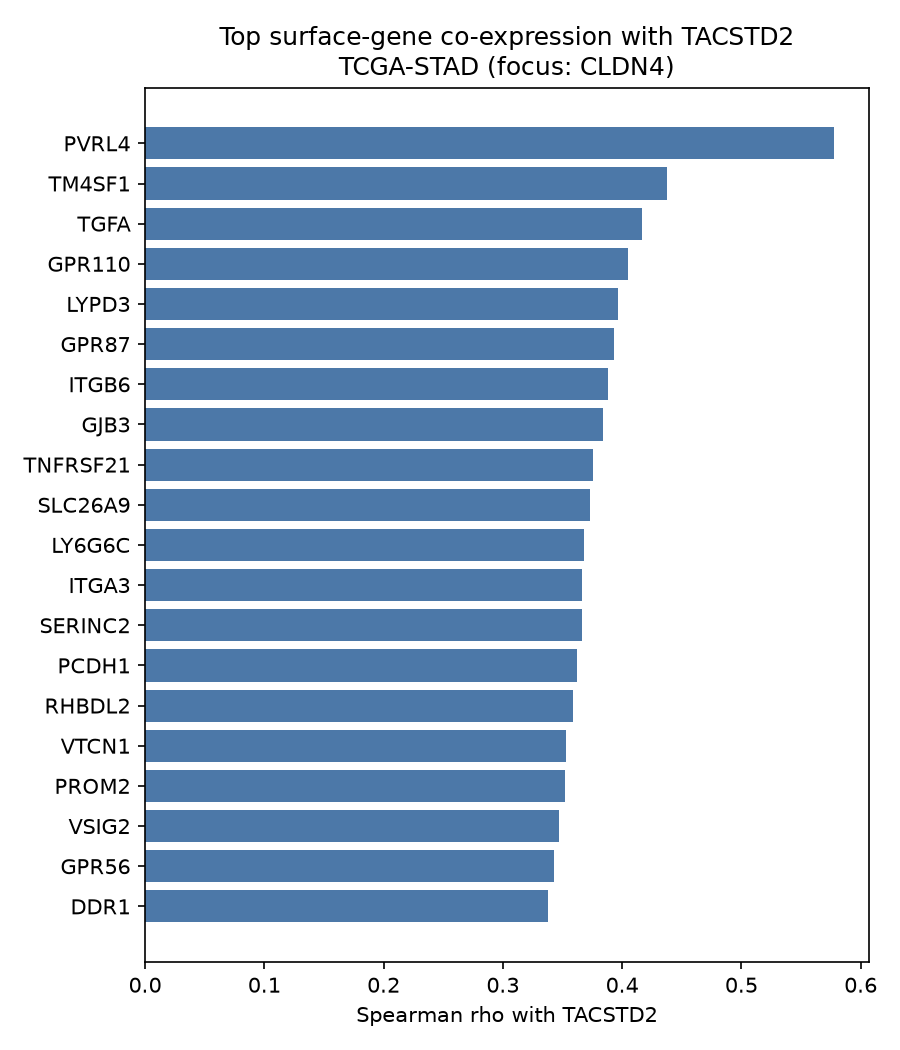
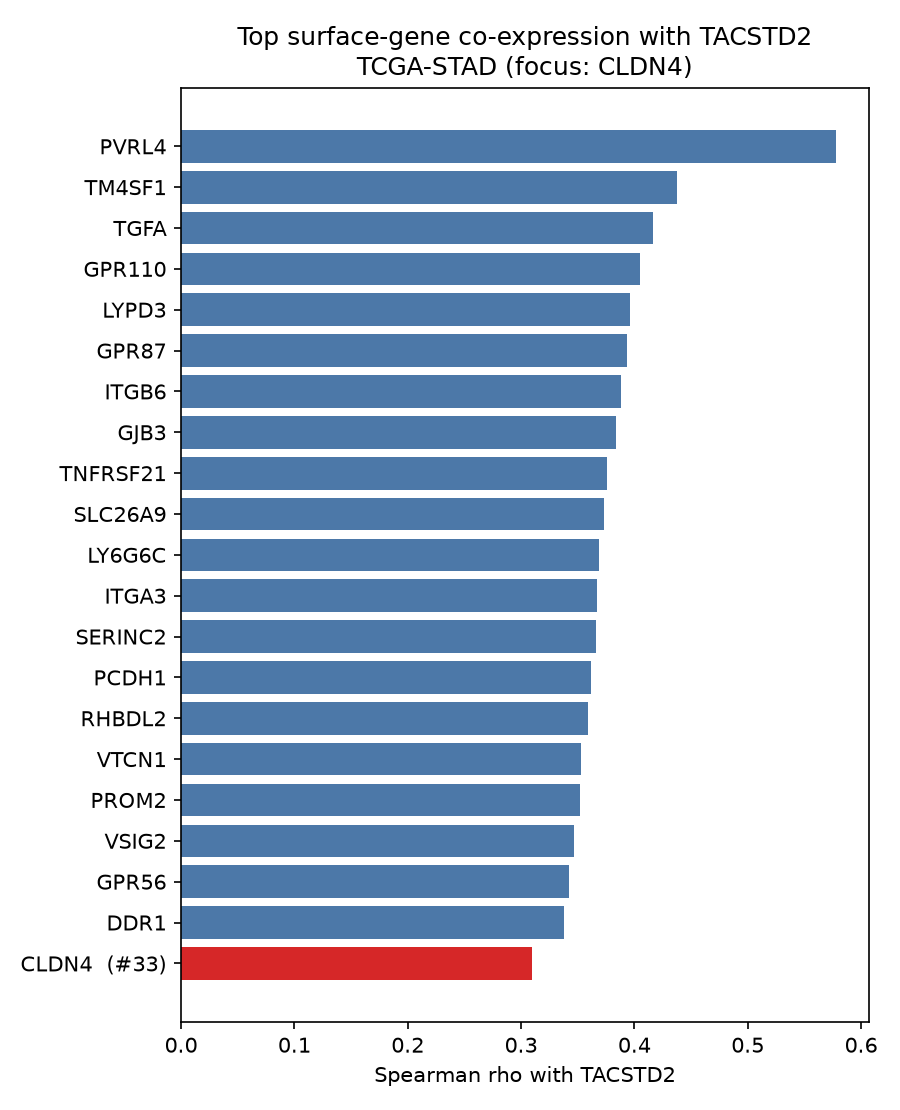
Show CLDN4 on the STAD partner bar chart even at rank 33
The focus gene sits outside the top 20, so the previous figure omitted it.
Append the highlighted CLDN4 bar with its honest rank label.

Changed region(s): [[0.0311, 0.0, 0.9644, 0.8838], [0.1556, 0.9143, 0.9956, 0.9752]]

diff --git a/scripts/coexpression.py b/scripts/coexpression.py
@@ -217,11 +217,21 @@ def make_plots(
         fig.savefig(outdir / f"scatter_{anchor}_vs_{focus}.png", dpi=150)
         plt.close(fig)
 
-    # 2) Top-N bar chart, focus highlighted.
-    topn = df.head(min(20, window)).iloc[::-1]
+    # 2) Top-N bar chart. If the focus gene is outside the window, append it
+    # so the figure still shows its honest rank (STAD: CLDN4 is #33).
+    n_bars = min(20, window)
+    topn = df.head(n_bars).copy()
+    if focus in df["gene"].values and focus not in set(topn["gene"]):
+        topn = pd.concat([topn, df[df["gene"] == focus]], ignore_index=True)
+    topn = topn.iloc[::-1]
     colors = ["#d62728" if g == focus else "#4c78a8" for g in topn["gene"]]
-    fig, ax = plt.subplots(figsize=(6, 7))
-    ax.barh(topn["gene"], topn["spearman_r"], color=colors)
+    labels = [
+        f"{g}  (#{int(r)})" if g == focus else g
+        for g, r in zip(topn["gene"], topn["spearman_rank"])
+    ]
+    fig, ax = plt.subplots(figsize=(6, 7.4))
+    ax.barh(range(len(topn)), topn["spearman_r"], color=colors)
+    ax.set_yticks(range(len(topn)), labels)
     ax.set_xlabel(f"Spearman rho with {anchor}")
     ax.set_title(f"Top surface-gene co-expression with {anchor}\n{COHORT} (focus: {focus})")
     fig.tight_layout()
